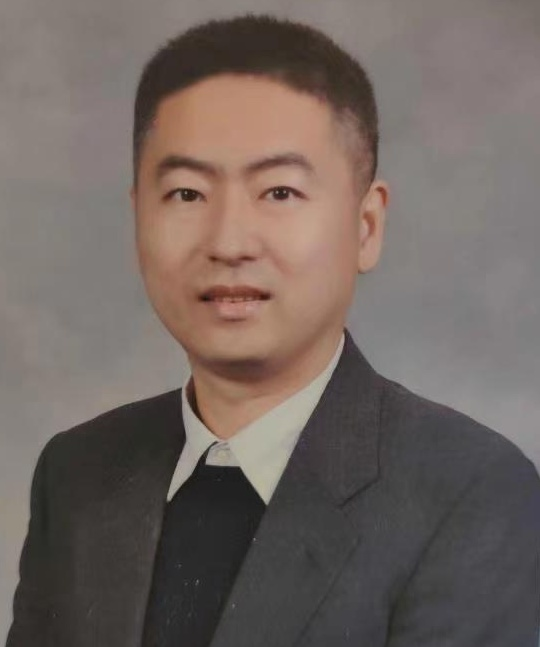
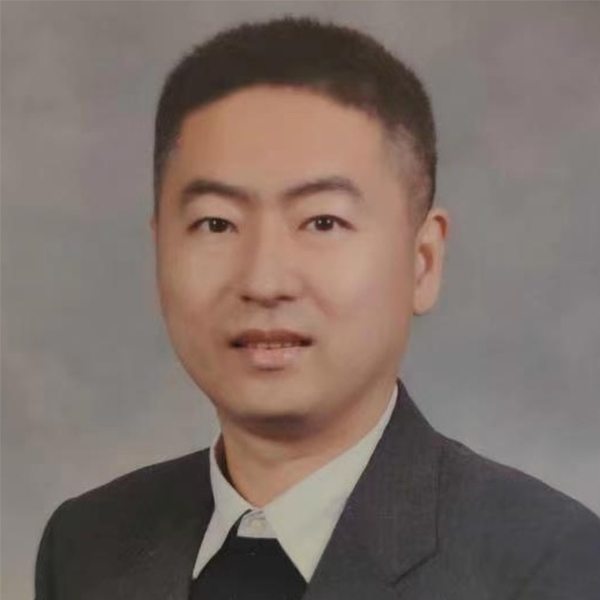
fixed position of sidebars,cards

diff --git a/frontend/src/app/choose/page.tsx b/frontend/src/app/choose/page.tsx
@@ -1,31 +1,37 @@
 "use client";
 import Card from "@/components/item-card";
 import { useState } from "react";
+import Link from "next/link";
+import Image from "next/image";
+import Sidebar from "@/components/item-sidebar";
 
 const teachers = [
   {
     teacherName: "罗志勇教授",
     teacherMajor: "机器学习",
-    imageUrl: "/images/罗志勇2.png",
-    pageUrl: "http://localhost:3000/luoZhiYong",
+    description: "“我普通话不标准吗？”",
+    imageUrl: "/images/罗志勇.png",
+    pageUrl: "/luoZhiYong",
   },
   {
     teacherName: "于东教授",
     teacherMajor: "C++编程",
+    description: "“今天的教室稍显稀疏哇”",
     imageUrl: "/images/于东.jpg",
-    pageUrl: "http://localhost:3000/yuDong",
+    pageUrl: "/yuDong",
   },
   {
     teacherName: "刘鹏远教授",
     teacherMajor: "Python",
+    description: "“没交作业，该罚！上课缺勤，该罚！”",
     imageUrl: "/images/刘鹏远.png",
-    pageUrl: "http://localhost:3000/liuPengYuan",
+    pageUrl: "/liuPengYuan",
   },
   ...Array(7).fill({
     teacherName: "阿蕾奇诺姐姐在从壁炉之家搜集教师~",
     teacherMajor: "至冬国执行官",
     imageUrl: "/images/default.jpg",
-    pageUrl: "http://localhost:3000/default",
+    pageUrl: "/default",
   }),
 ];
 
@@ -33,24 +39,21 @@ export default function ChoosePage() {
   const [count, setCount] = useState(0);
 
   return (
-    <div className="flex flex-col items-center justify-center min-h-screen w-full py-2">
-      {/* <button
-        className="h-12 w-36 bg-blue-200"
-        onClick={() => setCount((count) => count + 1)}
-      >
-        {count}
-      </button> */}
-      {teachers.map((teacher, index) => (
-        <div key={index} className="mb-4">
-          <Card
-            teacherName={teacher.teacherName}
-            teacherMajor={teacher.teacherMajor}
-            description=""
-            imageUrl={teacher.imageUrl}
-            pageUrl={teacher.pageUrl}
-          />
-        </div>
-      ))}
+    <div className="flex">
+      <Sidebar />
+      <div className="flex flex-col items-center justify-center min-h-screen w-full py-2 ml-73">
+        {teachers.map((teacher, index) => (
+          <div key={index} className="mb-4 w-full flex justify-center">
+            <Card
+              teacherName={teacher.teacherName}
+              teacherMajor={teacher.teacherMajor}
+              description={teacher.description}
+              imageUrl={teacher.imageUrl}
+              pageUrl={teacher.pageUrl}
+            />
+          </div>
+        ))}
+      </div>
     </div>
   );
 }

diff --git a/frontend/src/app/page.tsx b/frontend/src/app/page.tsx
@@ -1,48 +1,20 @@
 import Card from "@/components/item-card";
 import Link from "next/link";
 import Image from "next/image";
+import Sidebar from "@/components/item-sidebar";
 
 export default function HomePage() {
   return (
-    <div className="flex relative">
+    <div className="flex">
+      {/* 侧边栏 */}
+      <div className="flexed">
+        <Sidebar />
+      </div>
       {/* 分享按钮 */}
-      <div className="absolute top-4 right-4">
+      <div className=" absolute top-4 right-4">
         <button className="bg-black text-white p-2 rounded-full hover:bg-green-700">
           分享
         </button>
-      </div>
-
-      {/* 侧边栏 */}
-      <div className="w-64 h-screen bg-gray-200 flex flex-col justify-between items-center py-10 border-4 border-gray-900">
-        <div>
-          <Link
-            href="/login"
-            className="bg-blue-300 text-black py-2 px-2 rounded-full hover:bg-blue-600 font-bold border-4 border-purple-900"
-            style={{ width: "60px", height: "60px" }} // 确保宽高相等
-          >
-            登录
-          </Link>
-
-          {/* 增加了 mt-10 来向下移动历史按钮
-          <Link
-            href="/history"
-            className="mt-10 bg-blue-300 text-black py-2 px-2 rounded-full hover:bg-blue-600 font-bold border-4 border-purple-900"
-            style={{ width: "60px", height: "60px" }} // 确保宽高相等
-          >
-            历史
-          </Link> */}
-        </div>
-
-        {/* Beta按钮 */}
-        <div>
-          <Link
-            href="/beta"
-            className="bg-green-500 text-white py-2 px-4 rounded-full hover:bg-green-700 font-bold border-4 border-green-900"
-            style={{ width: "80px", height: "80px" }} // 确保宽高相等
-          >
-            Beta
-          </Link>
-        </div>
       </div>
 
       {/* 主内容区 */}

diff --git a/frontend/src/components/item-sidebar.tsx b/frontend/src/components/item-sidebar.tsx
@@ -1,0 +1,48 @@
+import Link from "next/link";
+
+export default function ItemSidebar() {
+  return (
+    <div className="fixed top-0 h-screen">
+      {/* 侧边栏 */}
+      <div className="w-24 h-screen bg-gray-200 flex flex-col justify-between items-center py-10 border-4 border-gray-900">
+        {/* 前三个按钮的容器 */}
+        <div className="flex flex-col space-y-2">
+          <div>
+            <Link
+              href="/login"
+              className="flex items-center justify-center bg-blue-200 text-black rounded-full hover:bg-blue-600 font-bold border-4 border-black w-14 h-14"
+            >
+              登录
+            </Link>
+          </div>
+          <div>
+            <Link
+              href="/history"
+              className="flex items-center justify-center bg-blue-200 text-black rounded-full hover:bg-blue-600 font-bold border-4 border-black w-14 h-14"
+            >
+              历史
+            </Link>
+          </div>
+          <div>
+            <Link
+              href="/history"
+              className="flex items-center justify-center bg-blue-200 text-black rounded-full hover:bg-blue-600 font-bold border-4 border-black w-14 h-14"
+            >
+              主题
+            </Link>
+          </div>
+        </div>
+
+        {/* Beta按钮，固定在底部 */}
+        <div>
+          <Link
+            href="/beta"
+            className="flex items-center justify-center bg-purple-500 text-white py-2 px-4 rounded-full hover:bg-purple-700 font-bold border-4 border-green-900"
+          >
+            Beta
+          </Link>
+        </div>
+      </div>
+    </div>
+  );
+}

diff --git a/frontend/src/components/item-card.tsx b/frontend/src/components/item-card.tsx
@@ -9,7 +9,7 @@ export default function ItemCard(props: {
   pageUrl: string;
 }) {
   return (
-    <div className="relative border-2 border-black shadow-md rounded-md w-[50%] h-[300px] p-4 overflow-visible min-w-[300px]">
+    <div className="relative border-2 border-black shadow-md rounded-md w-[300px] h-[275px] p-4 overflow-visible min-w-[300px]">
       <div className="flex justify-between items-center h-full">
         <Image
           src={props.imageUrl}

diff --git a/frontend/src/app/layout.tsx b/frontend/src/app/layout.tsx
@@ -5,8 +5,9 @@ import "./globals.css";
 const inter = Inter({ subsets: ["latin"] });
 
 export const metadata: Metadata = {
-  title: "Create Next App",
-  description: "Generated by create next app",
+  title: "北语信科赛博教师",
+  description: "Designed by Azrael-76",
+  icons: [{ rel: "icon", url: "/images/Silver_wolf.png" }],
 };
 
 export default function RootLayout({

diff --git a/frontend/src/app/test/page.tsx b/frontend/src/app/test/page.tsx
@@ -1,0 +1,13 @@
+"use client";
+import Link from "next/link";
+import Image from "next/image";
+import { useState } from "react";
+import Sidebar from "@/components/item-sidebar";
+
+export default function Test() {
+  return (
+    <div className="flex relative">
+      <Sidebar />
+    </div>
+  );
+}
